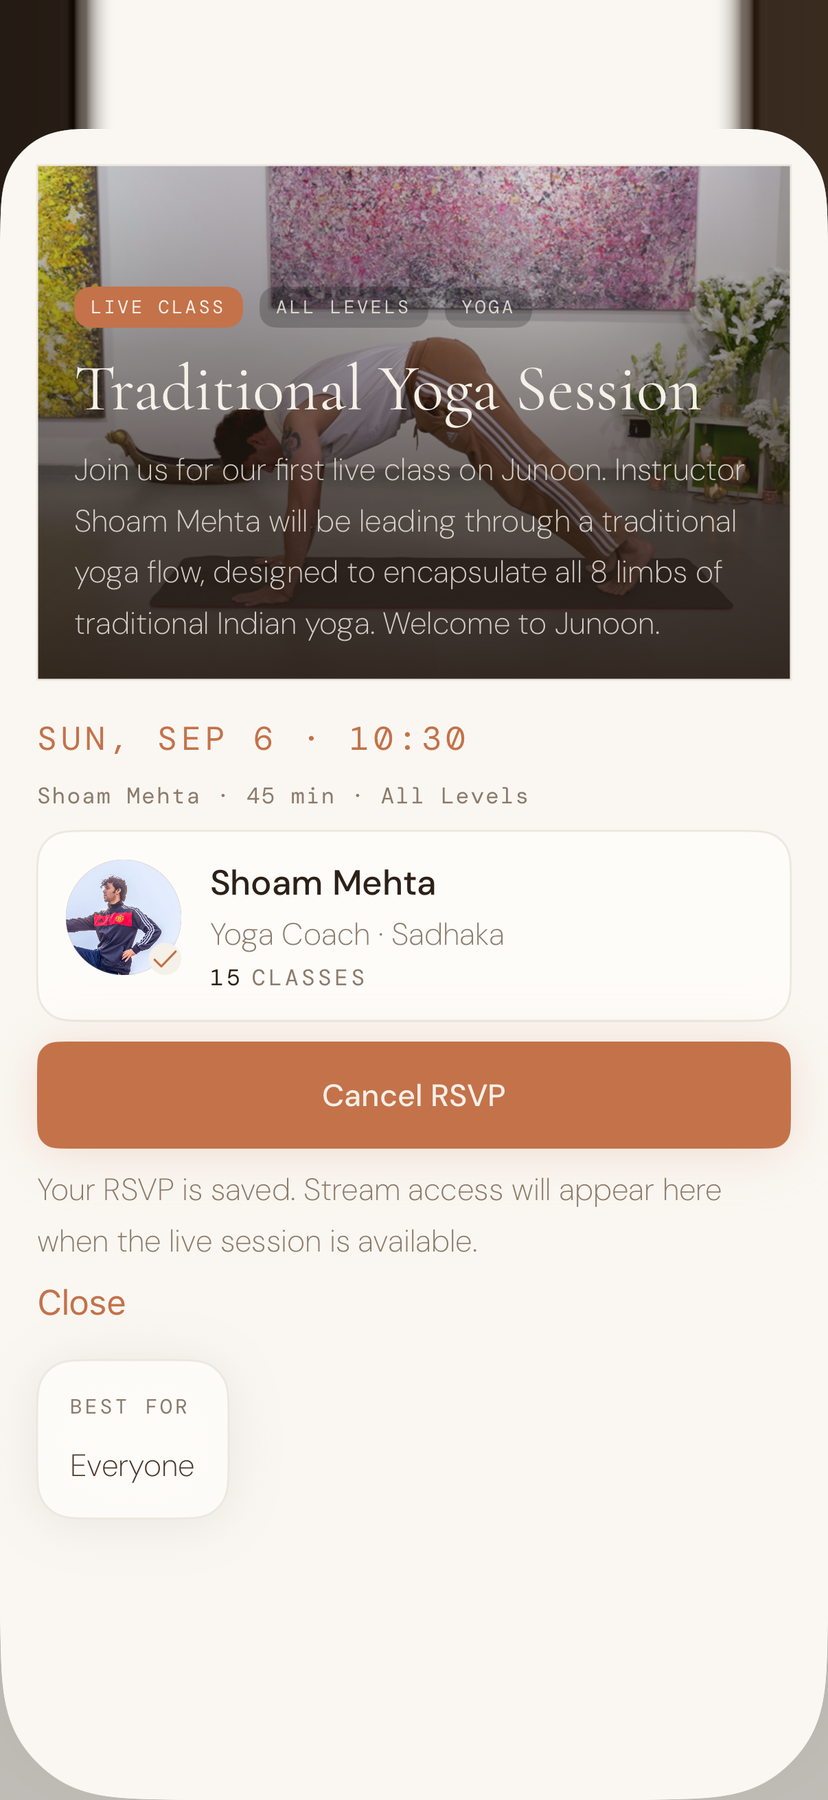
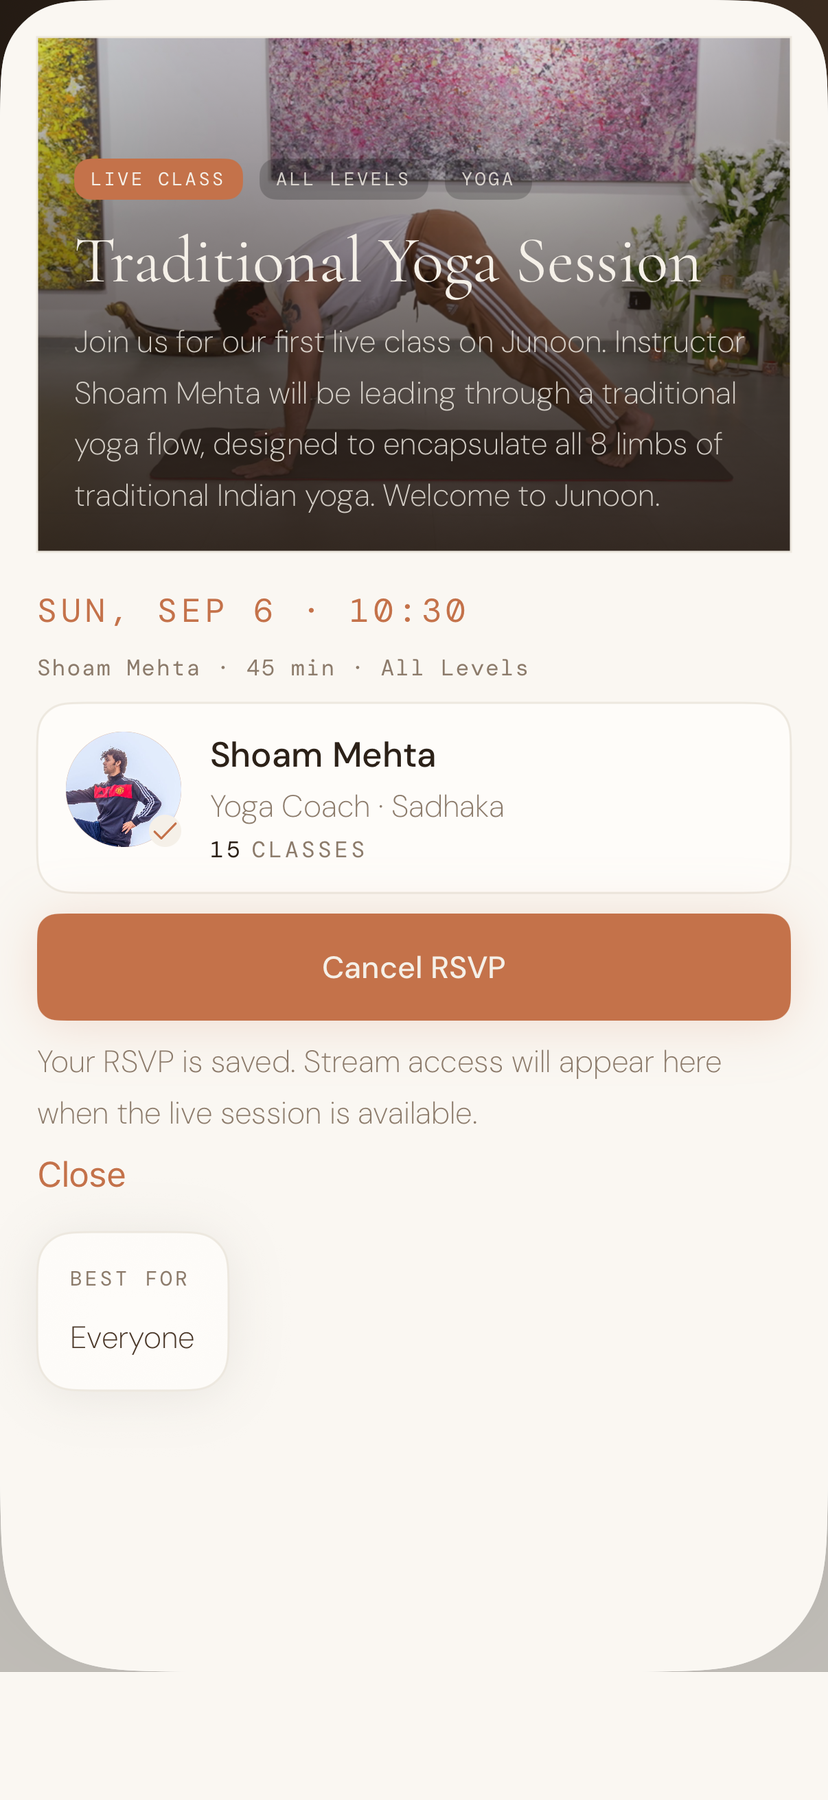
Fix the live-class screenshot's blank band and align the hero labels
SCREENSHOT — the filler moves from the top of the frame to the bottom.
Every capture is shorter than the 828x1800 slot once the iOS status bar
comes off, so 128px has to be filled. On live-class that filler sat at
the TOP, where it was a pale strip above a dark photo: a visible blank
band inside the phone, roughly 7% of the frame. At the bottom it
continues the sheet's own cream and disappears.

The fill row is now chosen by measuring, not by taking the last row.
The last row of that capture has a stddev of 28 — it carries a shadow —
so stretching it across 128px produced a faint streak. The flattest row
in the cream band measures 0.00 and leaves nothing visible.

⚠ Side-cropping was considered and rejected: the aspect is fixed at
828x1800, so reclaiming the bottom space means cutting the width, and
the Cancel RSVP button sits 54px from the edge. The crop needed would
have sliced 58px into it.

The remaining empty area below the card is the app screen's own layout,
not an artefact — that sheet is short and the frame is a tall phone.
Only a re-capture fixes it.

HERO LABELS — under 480px the grid used max-content columns, so column
one sized to RECORDED CLASSES while column two only had to fit YOUR
PLAN. The columns were different widths, nothing lined up down the page,
and the fifth label sat alone under the wide column with a hole beside
it. Equal columns square the edges; the orphan now spans both and
centres under the pair above.

Verified: tsc 0 · next build 0.

diff --git a/app/globals.css b/app/globals.css
@@ -1900,9 +1900,28 @@ body::before {
    nearly touching, so the grid gets real breathing room — two columns
    total ≈298px, still clear of a 342px container at 390. */
 @media (max-width: 480px) {
+  /* JV3 (2026-09-01, Kush: "better align the 5 buttons below"). `max-content`
+     sized each column to its own widest label, so column 1 was as wide as
+     RECORDED CLASSES while column 2 only had to fit YOUR PLAN — the two
+     columns had different widths, nothing lined up down the page, and the
+     fifth label sat alone under the wide column with a hole beside it.
+     Equal columns fix the ragged edges; spanning the orphan across both
+     centres it under the pair above instead of leaving it hanging left. */
   .v2-dots {
-    grid-template-columns: repeat(2, max-content);
-    gap: 10px 22px;
+    grid-template-columns: repeat(2, minmax(0, 1fr));
+    gap: 8px 10px;
+    max-width: 330px;
+  }
+  /* The pill is inline-flex, so without this its content hugs the left of a
+     now-wider cell and the labels stop being centred under each other. */
+  .v2-dot {
+    justify-content: center;
+    width: 100%;
+  }
+  .v2-dots > .v2-dot:last-child {
+    grid-column: 1 / -1;
+    justify-self: center;
+    width: max-content;
   }
 }
 
